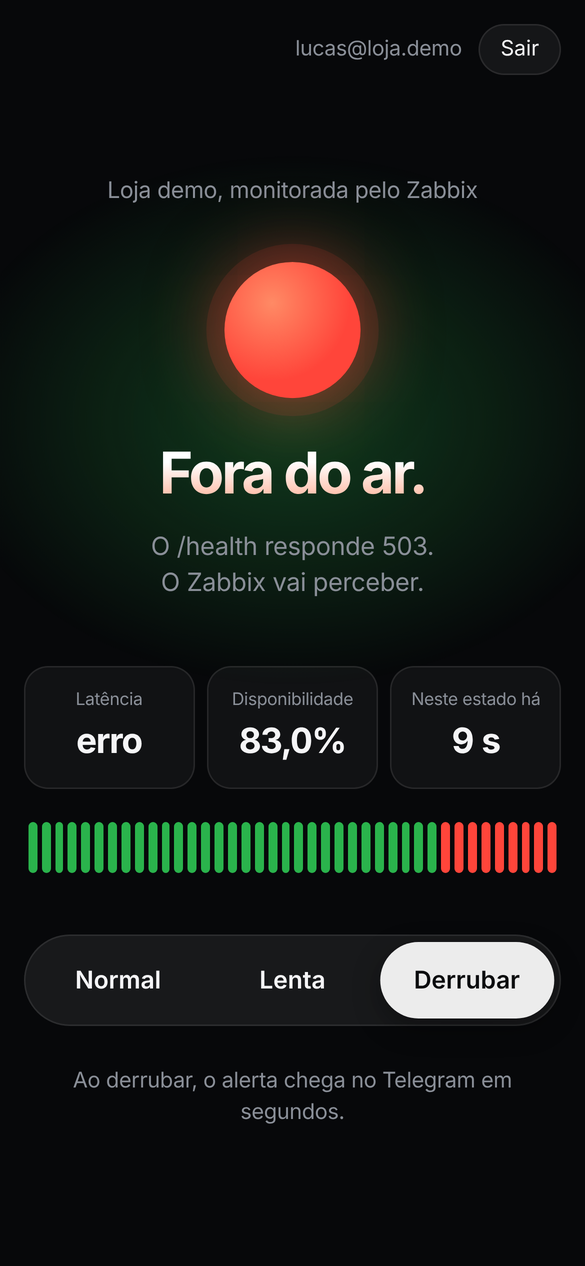
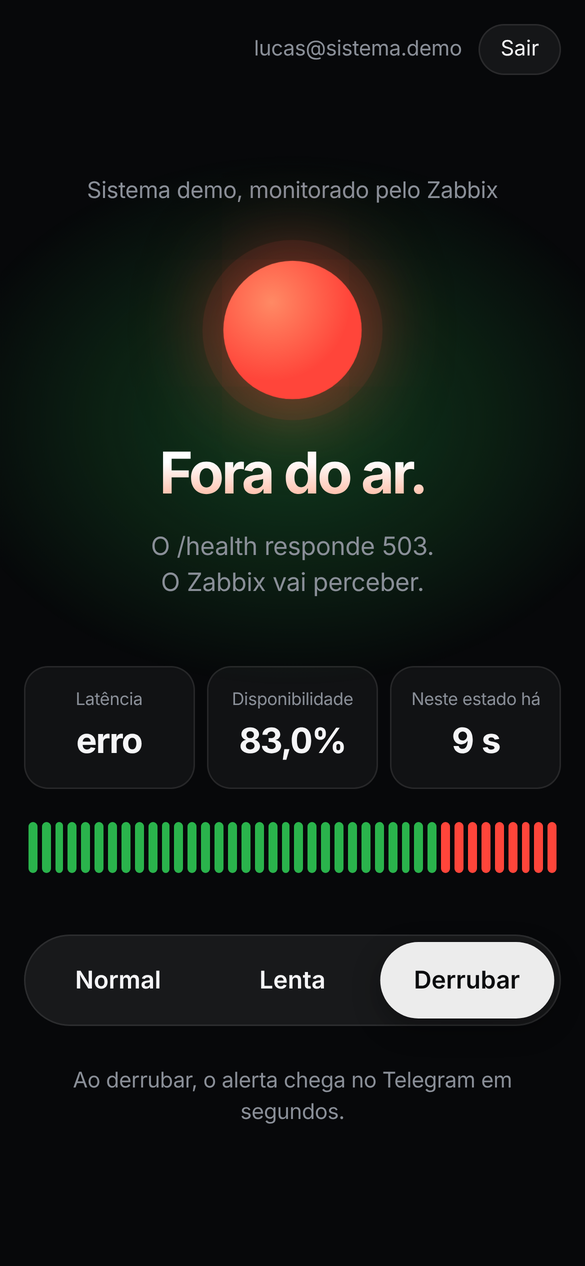
docs(demo-app): painel passa a se apresentar como sistema demo
Textos do painel e do login, e-mail padrão e capturas do README atualizados.

Claude-Session: https://claude.ai/code/session_01P5tu9kWisarytfpkpsWqjj

diff --git a/demo-app/panel.html b/demo-app/panel.html
@@ -4,7 +4,7 @@
 <meta charset="utf-8">
 <meta name="viewport" content="width=device-width, initial-scale=1">
 <meta name="color-scheme" content="dark">
-<title>Loja demo · simulador de incidente</title>
+<title>Sistema demo · simulador de incidente</title>
 <style>
   :root {
     --bg: #07080a;
@@ -113,7 +113,7 @@
 <body>
 <div class="account"><span id="who"></span><button type="button" id="logout">Sair</button></div>
 <main data-mode="normal">
-  <p class="eyebrow">Loja demo, monitorada pelo Zabbix</p>
+  <p class="eyebrow">Sistema demo, monitorado pelo Zabbix</p>
   <div class="orb" aria-hidden="true"></div>
   <h1 id="state">Operando normal.</h1>
   <p class="lead" id="lead">Tudo respondendo. O Zabbix checa a cada 15 segundos.</p>
@@ -125,7 +125,7 @@
   </dl>
   <div class="history" id="history" aria-label="Últimas checagens do /health"></div>
 
-  <div class="segmented" role="group" aria-label="Modo da loja">
+  <div class="segmented" role="group" aria-label="Modo do sistema">
     <span class="thumb" id="thumb"></span>
     <button data-set="normal" aria-pressed="true">Normal</button>
     <button data-set="slow" aria-pressed="false">Lenta</button>

diff --git a/demo-app/login.html b/demo-app/login.html
@@ -5,7 +5,7 @@
 <meta name="viewport" content="width=device-width, initial-scale=1, viewport-fit=cover">
 <meta name="color-scheme" content="dark">
 <meta name="theme-color" content="#07080a">
-<title>Entrar · Loja demo</title>
+<title>Entrar · Sistema demo</title>
 <style>
   :root {
     --bg: #07080a;
@@ -97,7 +97,7 @@
 <main>
   <div class="orb" aria-hidden="true"></div>
   <h1>Entre no painel.</h1>
-  <p class="lead">Loja demo, monitorada pelo Zabbix.</p>
+  <p class="lead">Sistema demo, monitorado pelo Zabbix.</p>
 
   <form id="form" novalidate>
     <div class="group" id="group">
@@ -158,7 +158,7 @@ form.addEventListener("submit", async (event) => {
     fail(typeof body.detail === "string" ? body.detail : "Não foi possível entrar. Tente de novo.");
     password.value = ""; password.focus();
   } catch {
-    fail("Sem conexão com a loja. Verifique se o container está rodando.");
+    fail("Sem conexão com o sistema. Verifique se o container está rodando.");
   }
   submit.disabled = false; label.textContent = "Entrar";
 });

diff --git a/demo-app/test_app.py b/demo-app/test_app.py
@@ -7,7 +7,7 @@ from fastapi.testclient import TestClient
 
 import app as demo
 
-EMAIL, PASSWORD = "lucas@loja.demo", "senha-forte-123"
+EMAIL, PASSWORD = "lucas@sistema.demo", "senha-forte-123"
 
 
 @pytest.fixture(autouse=True)
@@ -108,7 +108,7 @@ def test_panel_redirects_to_login(client: TestClient) -> None:
 
 def test_login_sets_hardened_cookie(client: TestClient) -> None:
     res = client.post(
-        "/api/login", json={"email": "  LUCAS@loja.demo ", "password": PASSWORD}
+        "/api/login", json={"email": "  LUCAS@sistema.demo ", "password": PASSWORD}
     )
     assert res.status_code == 204
     cookie = res.headers["set-cookie"].lower()
@@ -123,7 +123,7 @@ def test_login_sets_hardened_cookie(client: TestClient) -> None:
 def test_wrong_credentials_are_generic(client: TestClient) -> None:
     wrong_pass = client.post("/api/login", json={"email": EMAIL, "password": "x"})
     wrong_user = client.post(
-        "/api/login", json={"email": "outro@loja.demo", "password": PASSWORD}
+        "/api/login", json={"email": "outro@sistema.demo", "password": PASSWORD}
     )
     assert wrong_pass.status_code == wrong_user.status_code == 401
     assert (

diff --git a/demo-app/app.py b/demo-app/app.py
@@ -88,7 +88,7 @@ class Credentials:
 
 
 def _load_credentials() -> Credentials:
-    email = os.getenv("DEMO_EMAIL", "admin@loja.demo")
+    email = os.getenv("DEMO_EMAIL", "admin@sistema.demo")
     password = os.getenv("DEMO_PASSWORD", "")
     if not password:
         # Sem senha configurada, gera uma forte e mostra só no log do container.
@@ -220,11 +220,11 @@ async def set_chaos(
     session_ok = current_session(request) is not None and _same_origin(request)
     if not (token_ok or session_ok):
         raise HTTPException(
-            status_code=401, detail="Entre no painel para mudar o modo da loja."
+            status_code=401, detail="Entre no painel para mudar o modo do sistema."
         )
     _state.update(mode=mode, since=time.time())
     who = "token" if token_ok else "painel"
-    log.info("modo da loja alterado para %s via %s", mode, who)
+    log.info("modo do sistema alterado para %s via %s", mode, who)
     return {"mode": mode}
 
 
